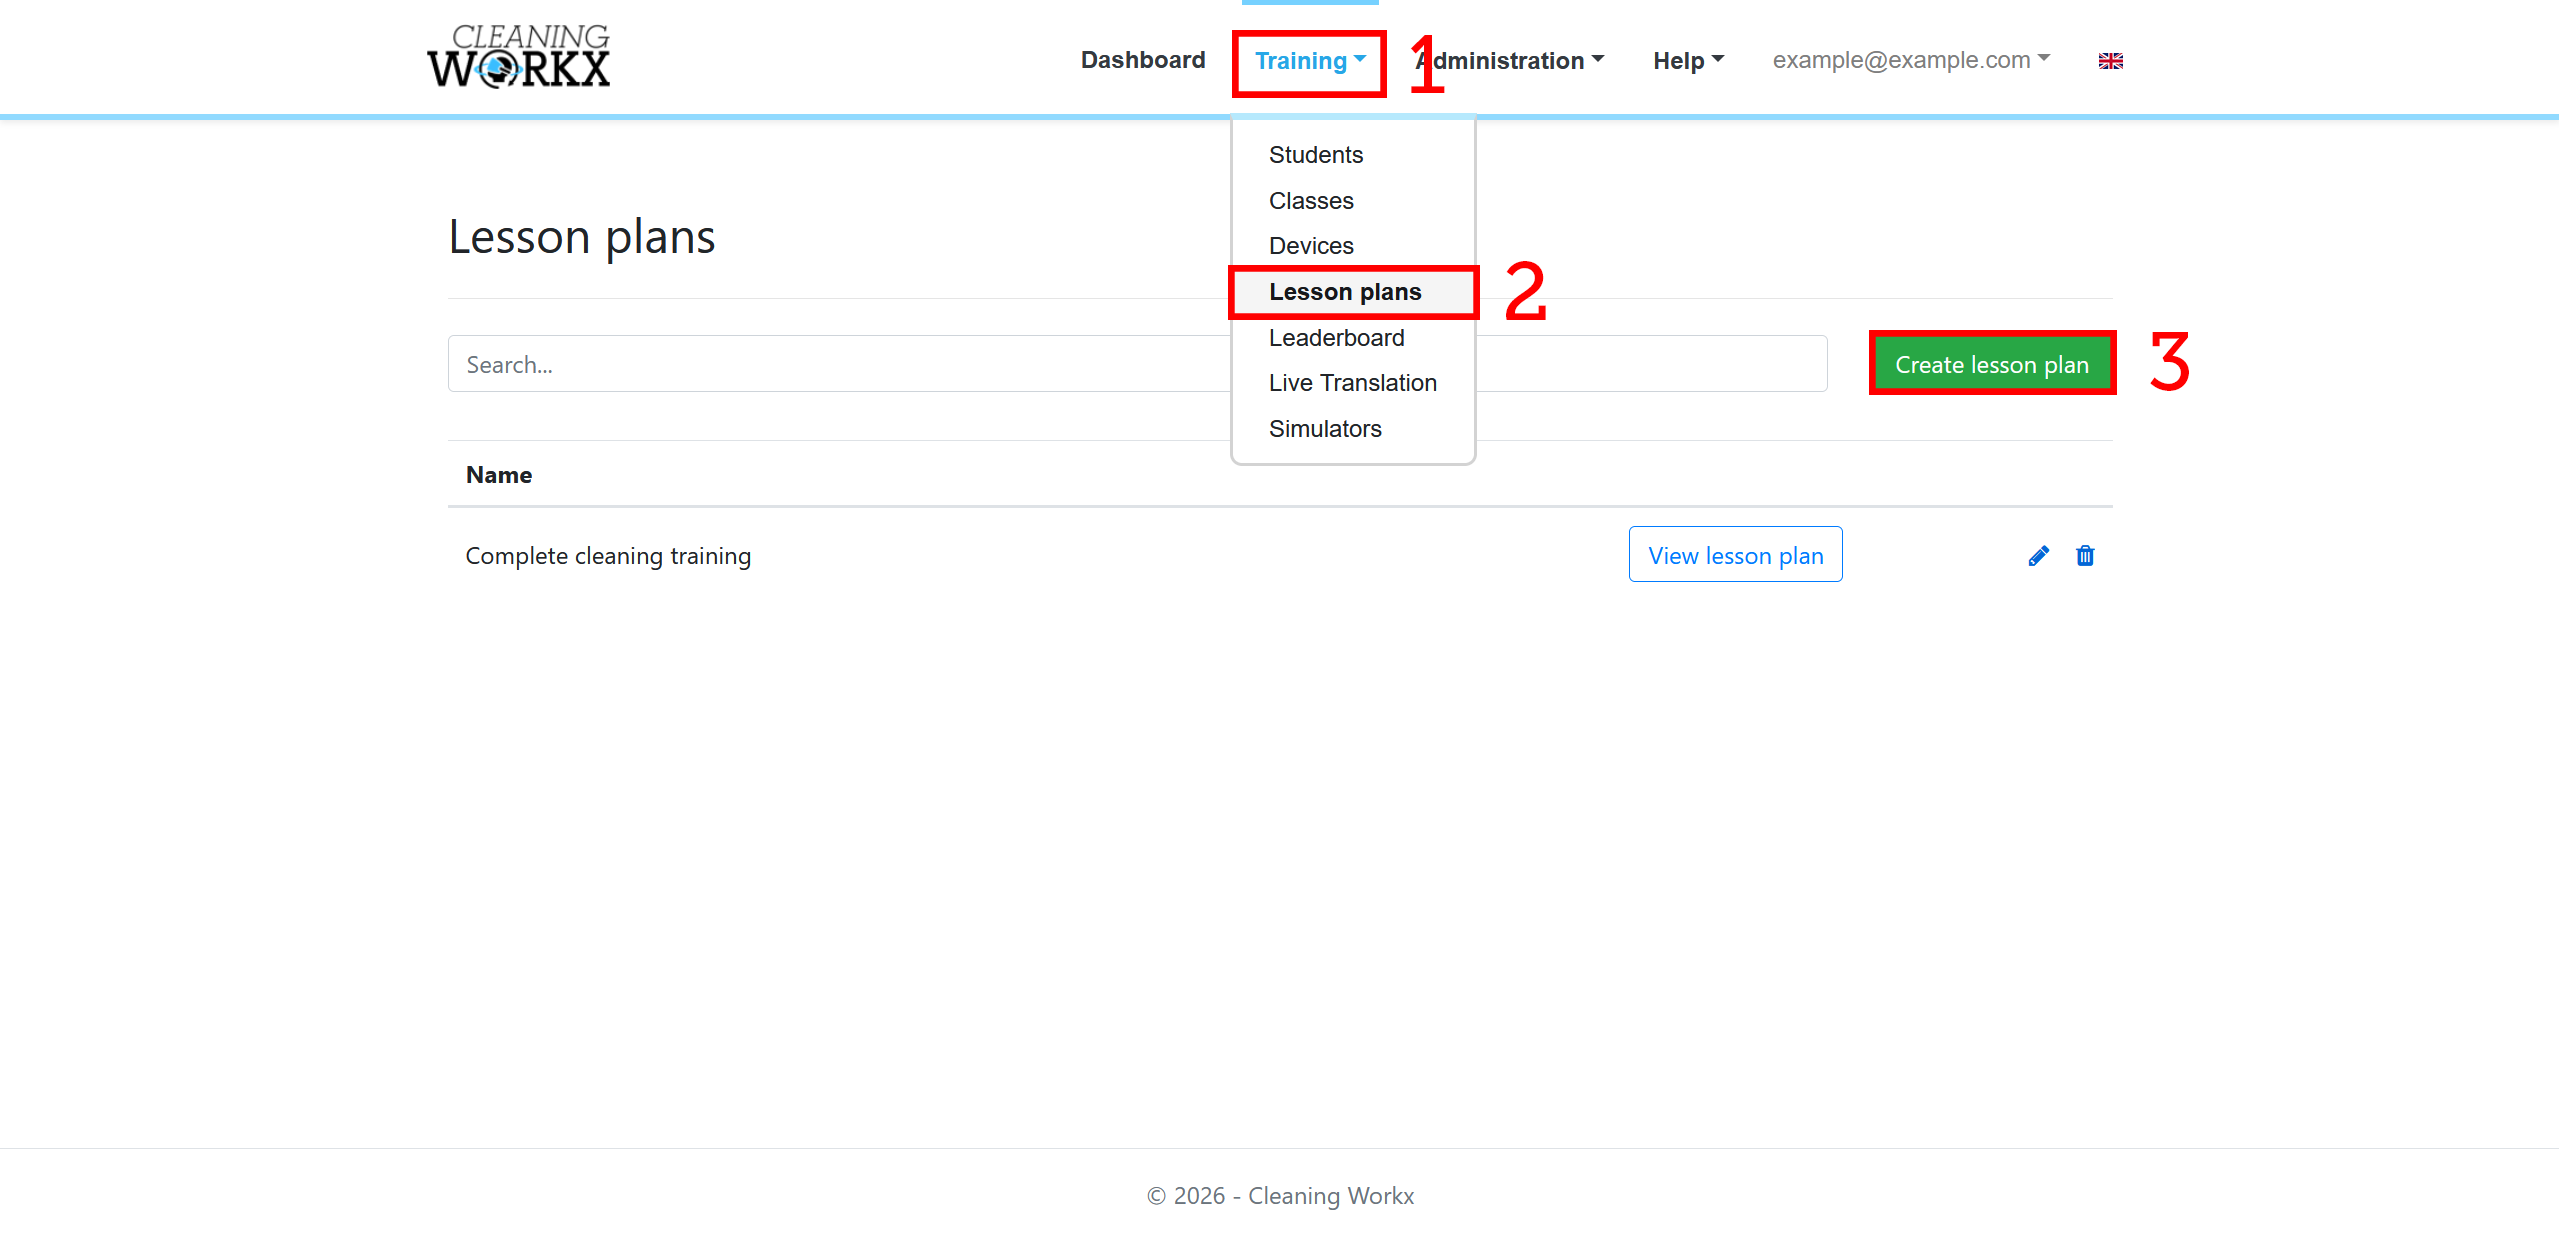
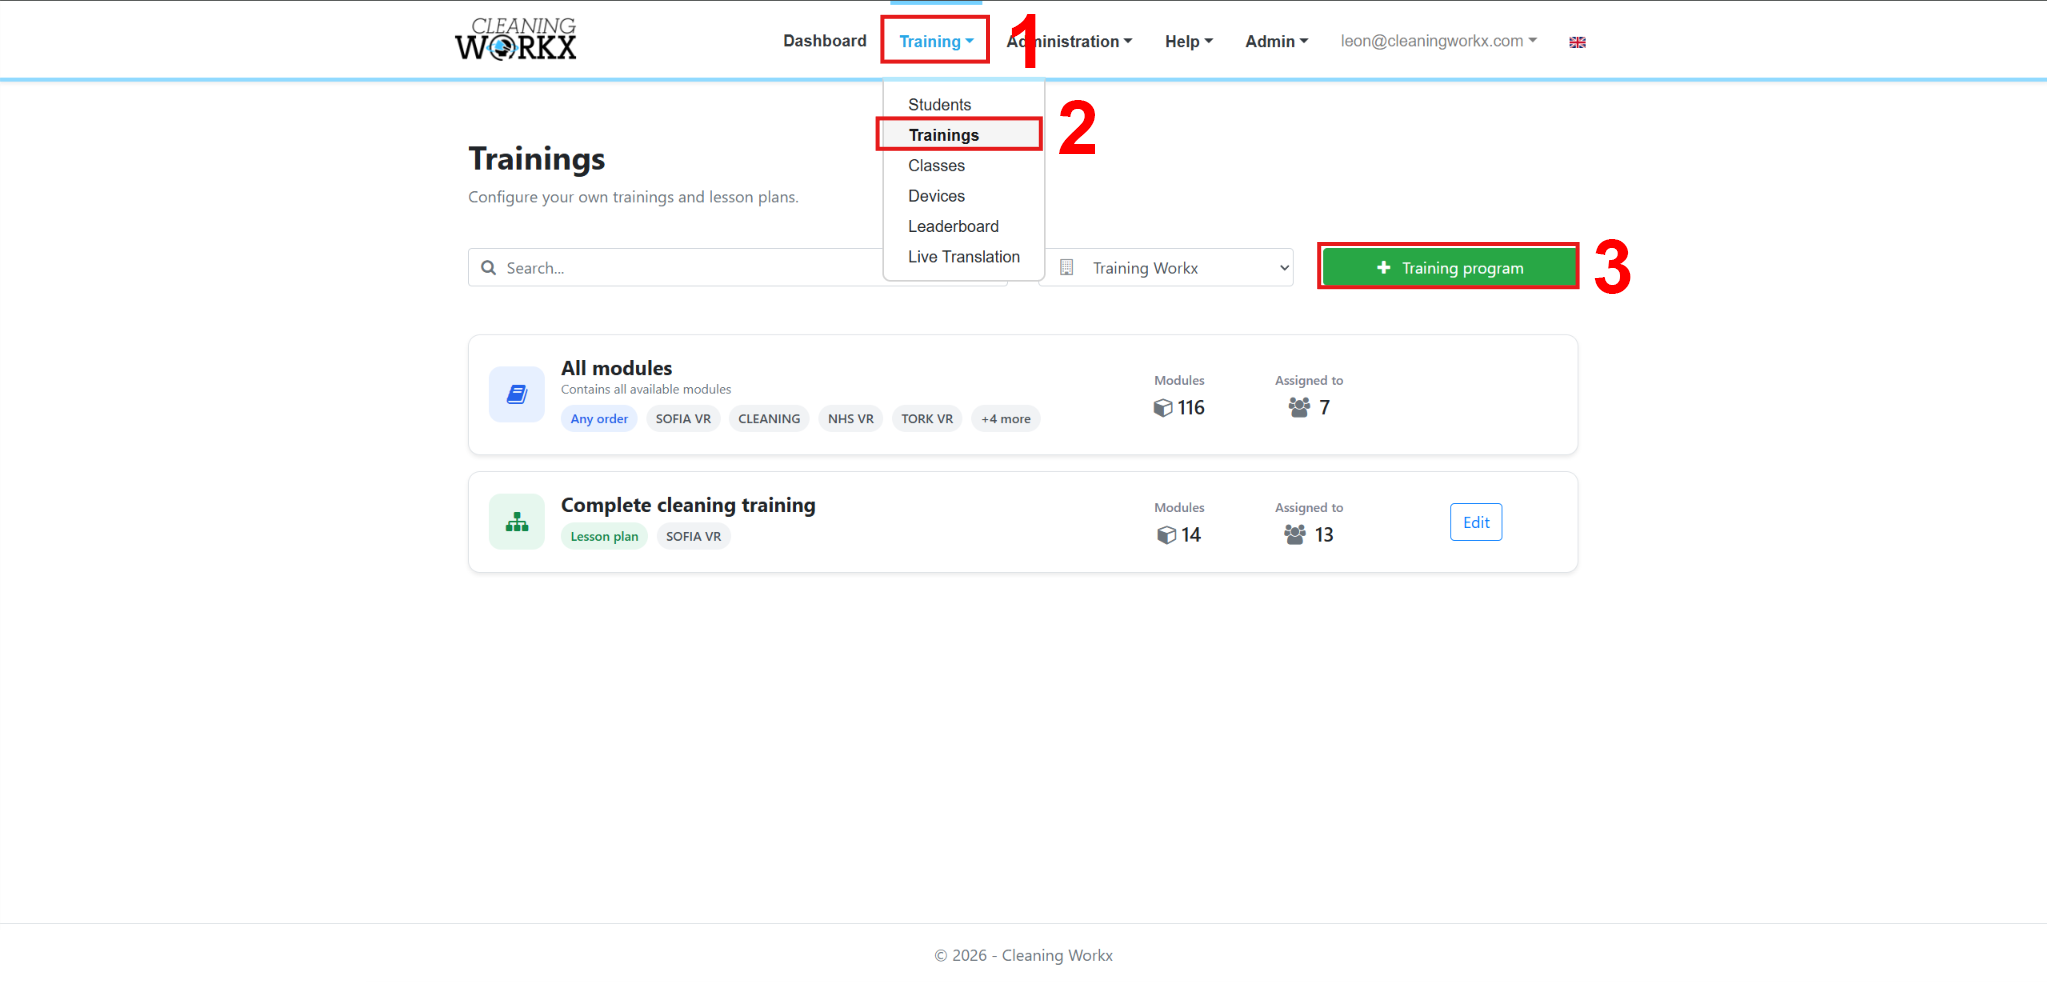
Update the lesson plan page to work with the updated portal

diff --git a/docs/nl/TrainingPortal/4-using-lesson-plans.md b/docs/nl/TrainingPortal/4-using-lesson-plans.md
@@ -1,57 +1,56 @@
-# Lesplannen gebruiken
+# Trainingprogramma's gebruiken
 
-Met lesplannen kunnen trainers bepalen welke trainingsmodules studenten moeten doorlopen.
+Met trainingprogramma's kunnen trainers bepalen welke trainingsmodules deelnemers moeten volgen.
 
-Ze maken het gemakkelijker om studenten door een gestructureerd trainingsprogramma te begeleiden.
+Er zijn twee soorten trainingprogramma's:
 
-Lesplannen worden beheerd via het **Training Workx-portaal**.
+- **Vrije volgorde** – Deelnemers kunnen de geselecteerde modules in elke gewenste volgorde voltooien.
+- **Lesplan** – Deelnemers moeten de modules volgen in de volgorde die door de trainer is bepaald.
 
-U kunt het portaal bereiken via:
+Trainingprogramma's worden beheerd via het **Training Workx-portaal**.
+
+Je kunt het portaal openen via:
 
 - Logistic Workx: portal.logisticworkx.com
-
 - Cleaning Workx: portal.cleaningworkx.com
 
 ---
 
-## Een lesplan maken
+## Een trainingprogramma aanmaken
 
 1. Log in op het **Training Workx-portaal**.
+2. Ga naar **Training → Trainings**.
+3. Klik op **+ Trainingprogramma**.
+4. Voer een naam in voor het trainingprogramma.
+5. Kies de gewenste **Trainingsvorm**:
+   - **Vrije volgorde** – Deelnemers kunnen de modules in een willekeurige volgorde voltooien.
+   - **Lesplan** – Deelnemers moeten de modules in de vooraf ingestelde volgorde voltooien.
+6. Voeg de modules toe die je wilt opnemen.
+7. Sla het trainingprogramma op.
 
-2. Ga naar **Trainen → Lesplannen**.
+![Overzicht trainingprogramma's](../assets/lessonplan.png)
 
-3. Klik op **Nieuw lesplan**.
-
-4. Geef het lesplan een naam.
-
-5. Selecteer de modules die u wilt opnemen.
-
-6. Sla het lesplan op.
-
-![Lesplanoverzicht](../assets/lessonplan.png)
-
-![Lesplan bewerken](../assets/edit-lessonplan.png)
+![Trainingsvorm selecteren](../assets/edit-lessonplan.png)
 
 ---
 
-## Een lesplan toewijzen
+## Een trainingprogramma toewijzen
 
-Zodra een lesplan is aangemaakt, kan het worden toegewezen aan leerlingen of klassen.
+Zodra een trainingprogramma is aangemaakt, kan het worden toegewezen aan individuele deelnemers.
 
-1. Open het lesplan in het portaal.
+1. Ga naar **Training → Studenten**.
+2. Zoek de deelnemer en klik op **Modules bekijken**.
+3. Klik op **Modules beheren**.
+4. Selecteer rechtsboven bij **Trainingprogramma** het trainingprogramma dat je hebt aangemaakt.
+5. Sla de wijzigingen op.
 
-2. Selecteer de leerlingen of klas die het lesplan moeten gebruiken.
-
-3. Sla de wijzigingen op.
-
-Leerlingen zien nu de toegewezen modules wanneer ze de VR-training starten.
-
----
-
-## Lesplannen gebruiken in VR
-
-Wanneer leerlingen de training starten, verschijnen de modules uit het lesplan in het **moduleselectiescherm**.
-
-Ze kunnen de modules vervolgens in de door de trainer aangegeven volgorde voltooien.
+Het geselecteerde trainingprogramma is nu toegewezen aan de deelnemer.
 
 ---
+
+## Trainingprogramma's gebruiken in VR
+
+Wanneer deelnemers de VR-training starten, zien zij de modules uit het aan hen toegewezen trainingprogramma.
+
+- Bij een **Vrije volgorde**-trainingprogramma kunnen deelnemers de modules in elke gewenste volgorde voltooien.
+- Bij een **Lesplan** moeten deelnemers de modules in de vooraf ingestelde volgorde afronden.

diff --git a/docs/en/TrainingPortal/4-using-lesson-plans.md b/docs/en/TrainingPortal/4-using-lesson-plans.md
@@ -1,48 +1,56 @@
-# Using lesson plans
+# Using training programs
 
-Lesson plans allow trainers to organize which training modules students should complete.  
-They make it easier to guide students through a structured training program.
+Training programs allow trainers to organize which training modules students should complete.
 
-Lesson plans are managed through the **Training Workx portal**.
+There are two types of training programs:
+
+- **Any order** – Participants can complete the selected modules in any order.
+- **Lesson plan** – Participants must complete the modules in the order defined by the trainer.
+
+Training programs are managed through the **Training Workx portal**.
 
 You can access the portal at:
 
-- Logistic Workx: portal.logisticworkx.com  
-- Cleaning Workx: portal.cleaningworkx.com  
+- Logistic Workx: portal.logisticworkx.com
+- Cleaning Workx: portal.cleaningworkx.com
 
 ---
 
-## Creating a lesson plan
+## Creating a training program
 
-1. Log in to the **Training Workx portal**.  
-2. Go to **Training → Lesson Plans**.  
-3. Click **New Lesson Plan**.  
-4. Enter a name for the lesson plan.  
-5. Select the modules you want to include.  
-6. Save the lesson plan.  
+1. Log in to the **Training Workx portal**.
+2. Go to **Training → Trainings**.
+3. Click **+ Training program**.
+4. Enter a name for the training program.
+5. Choose the desired **Training form**:
+   - **Any order** – Participants can complete the selected modules in any order.
+   - **Lesson plan** – Participants must complete the modules in the predefined order.
+6. Add the modules you want to include.
+7. Save the training program.
 
-![Lesson plan overview](../assets/lessonplan.png)
+![Training overview](../assets/lessonplan.png)
 
-![Edit lesson plan](../assets/edit-lessonplan.png)
-
----
-
-## Assigning a lesson plan
-
-Once a lesson plan is created, it can be assigned to students or classes.
-
-1. Open the lesson plan in the portal.  
-2. Select the students or class that should use it.  
-3. Save the changes.  
-
-Students will now see the assigned modules when starting the VR training.
+![Training form selection](../assets/edit-lessonplan.png)
 
 ---
 
-## Using lesson plans in VR
+## Assigning a training program
 
-When students start the training, the modules from the lesson plan will appear in the **module selection screen**.
+Once a training program has been created, it can be assigned to individual students.
 
-They can then complete the modules in the order defined by the trainer.
+1. Go to **Training → Students**.
+2. Find the student and click **View modules**.
+3. Click **Manage modules**.
+4. In the top-right corner, use the **Training program** dropdown to select the training program you created.
+5. Save the changes.
+
+The selected training program is now assigned to the student.
 
 ---
+
+## Using training programs in VR
+
+When students start the VR training, they will see the modules from their assigned training program.
+
+- If the training program is **Any order**, students can complete the modules in any order.
+- If the training program is a **Lesson plan**, students must complete the modules in the predefined order.
